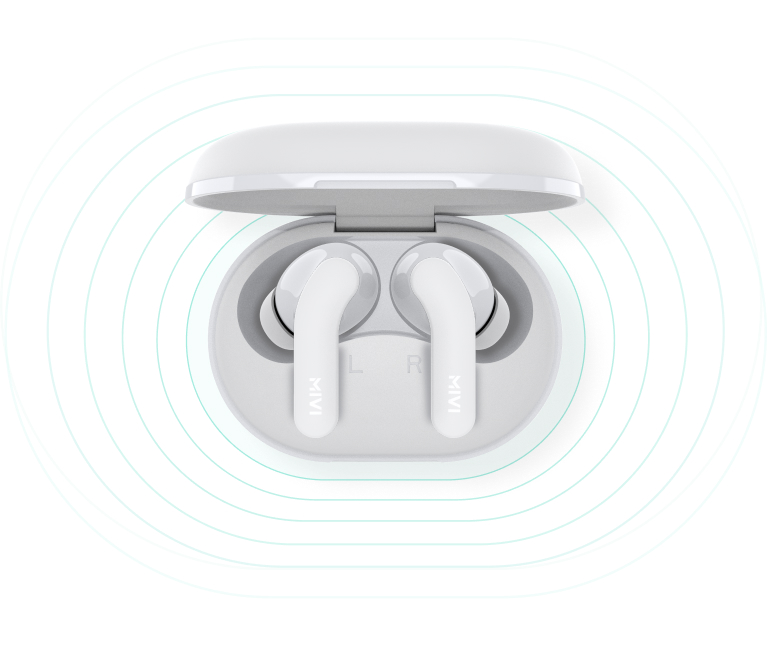
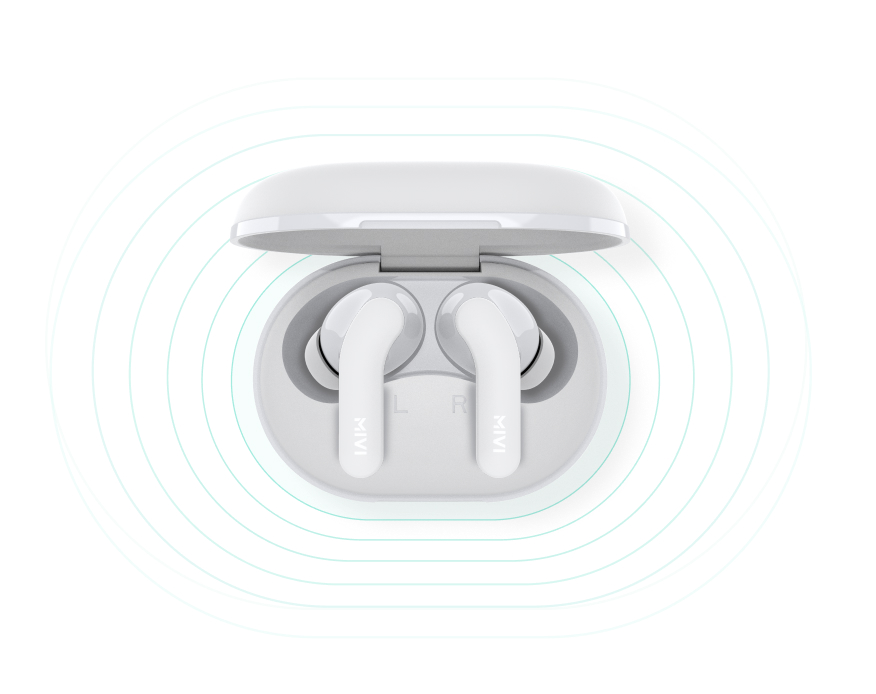
placed the actuall white duopods instead of wrong one

diff --git a/index.html b/index.html
@@ -198,7 +198,7 @@
       <h1 class="relative z-10 text-5xl md:text-6xl text-transparent font-bold bg-gradient-to-b from-green-light to-green-lighter bg-clip-text tracking-wide capitalize mt-3">20 long hours</h1>
       <p class="text-sm md:text-xl leading-5 md:leading-8 opacity-80 text-black-medium mt-3 w-5/6 md:w-3/5">We power packed these next gen earbuds with a combined battery life of upto 20 hours. 5 Hours on a single charge!</p>
     </div>
-    <img src="assets/white_duopods_2.jpg" alt="white-buopods" class="-z-1 float-right absolute right-0 object-left object-cover h-118 w-82 overflow-hidden -top-28 md:-top-14 md:object-center md:object-contain md:w-9/12">
+    <img src="assets/white_duopods_with_bg.png" alt="white-buopods" class="-z-1 float-right absolute right-0 object-left object-cover h-118 w-82 overflow-hidden -top-28 md:-top-14 md:object-center md:object-contain md:w-9/12">
   </div>
   <div>
     <img src="" alt="vibrations icon">
